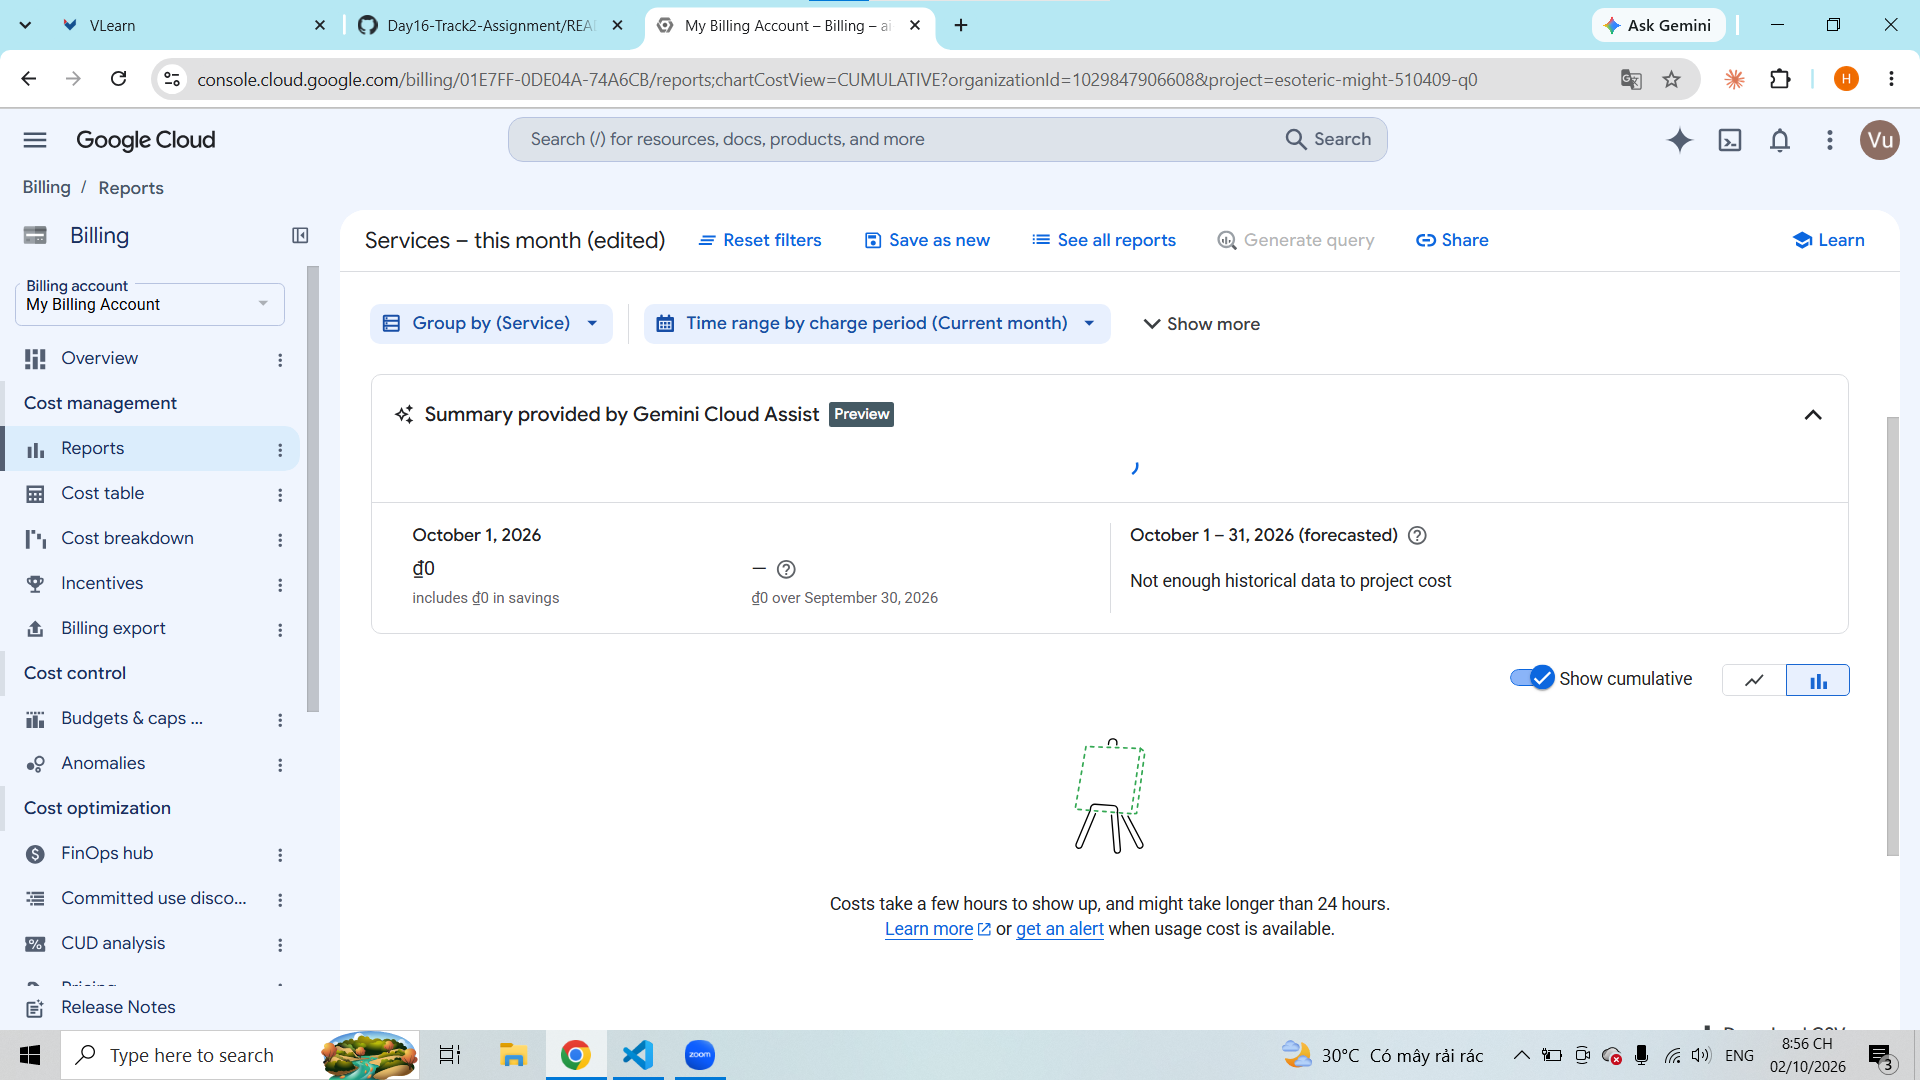
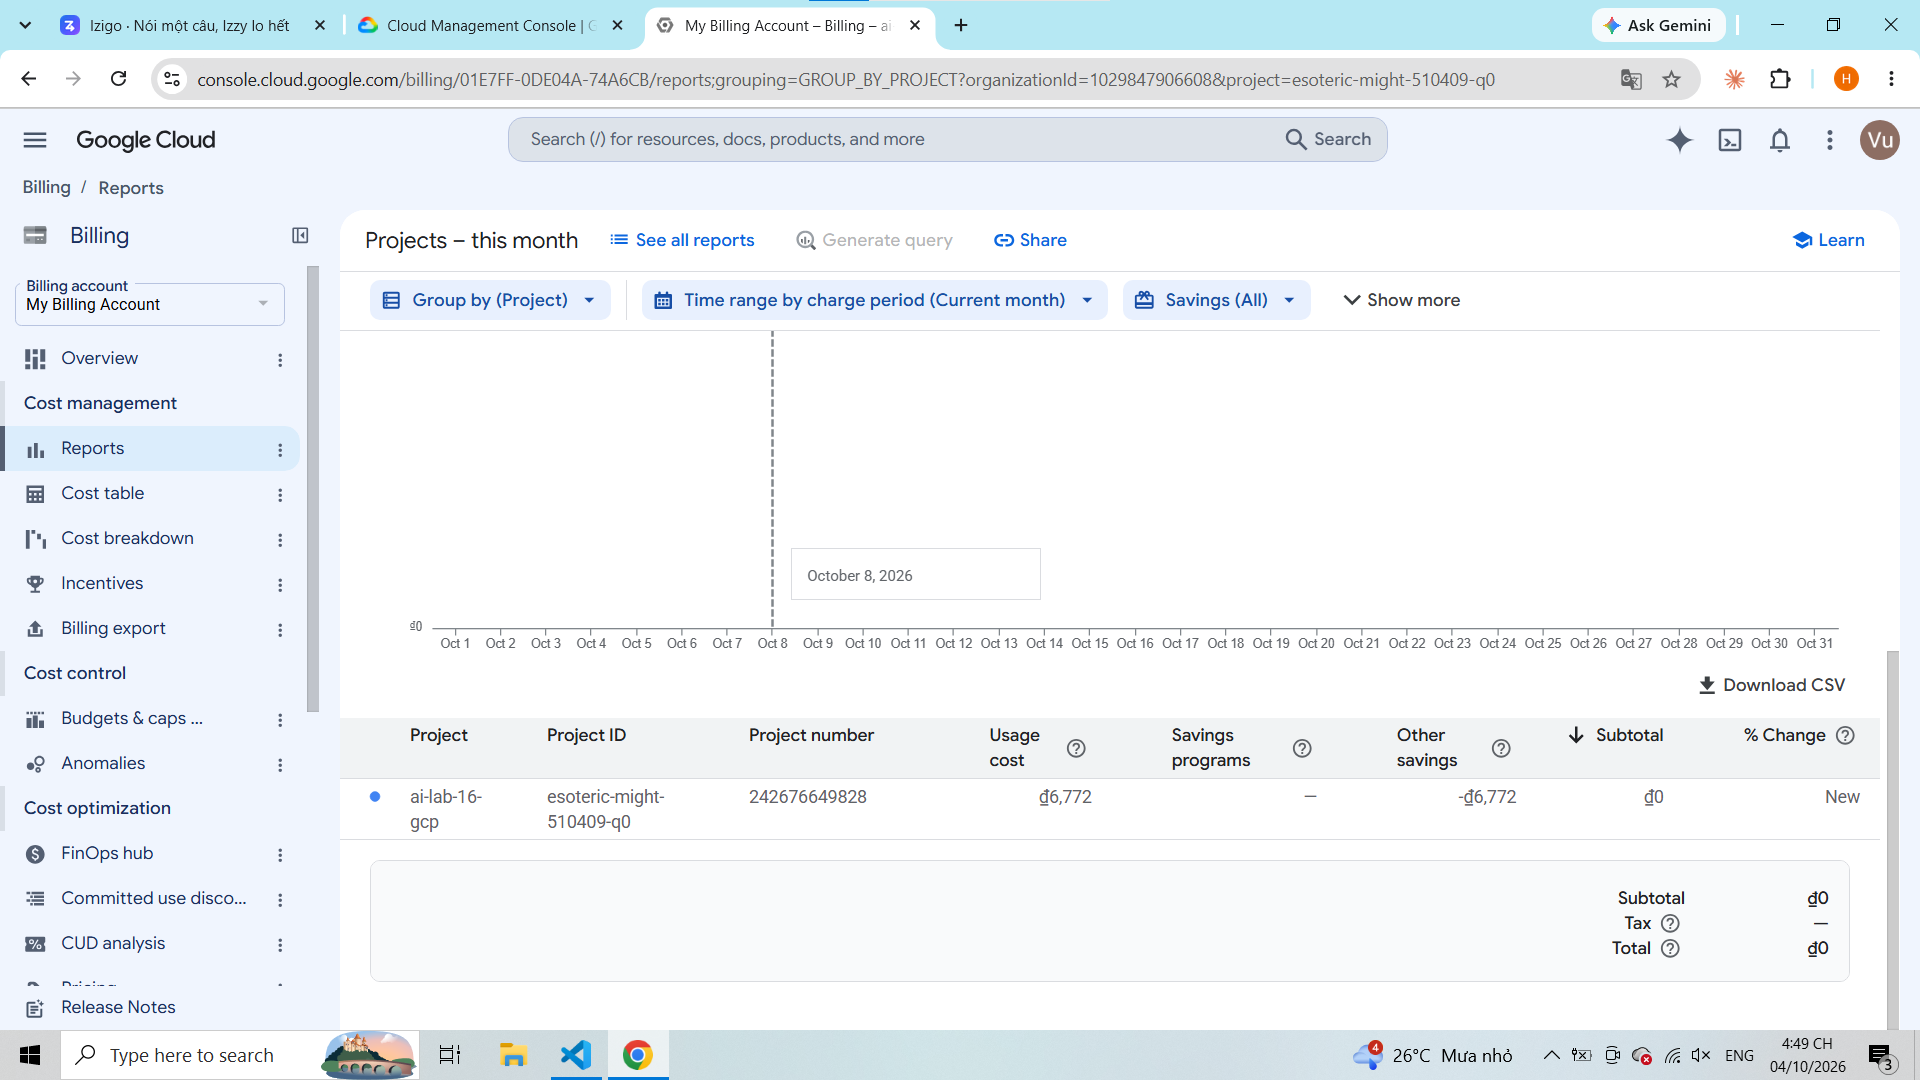
Update billing screenshot and report with actual GCP cost

diff --git a/submission/report.md b/submission/report.md
@@ -6,5 +6,5 @@
 4. Trên tập test: **AUC-ROC 0,9709**, Accuracy 0,9995, **F1 0,8571**, Precision 0,9286, Recall 0,7959 (ngưỡng 0,5). Accuracy cao chủ yếu do mất cân bằng lớp, nên AUC/F1/Recall phản ánh chất lượng thật hơn.
 5. Latency 1 dòng **1,33 ms** (median của 200 lần sau warm-up; p95 1,51 ms); throughput batch 1.000 dòng **~141.214 dòng/giây** (median 20 lần, 7,1 ms/batch); chỉ đo thời gian `predict_proba`, không tính đọc file.
 6. Ghi chú kỹ thuật: lần chạy đầu với tham số mặc định (`min_child_weight=1e-3`) dừng ở best_iteration = 1 (AUC 0,938) do lá chứa ít mẫu gian lận nhận giá trị Newton-step quá lớn khiến training phân kỳ; đặt `min_child_weight=1` giúp mô hình ổn định (AUC 0,971, F1 0,857). Trên CPU 2 vCPU, training < 10 giây và inference ~1 ms/dòng là đủ nhanh cho bài toán này, không cần GPU.
-7. CPU/RAM/Network quan sát qua `top`, `free -h`, `ip -s link` (ảnh `03_top.png`, `04_free_iplink.png`). Billing tại **20:56 ngày 02/10/2026** ghi nhận **₫0 – chưa cập nhật** (Console ghi "Costs take a few hours to show up, and might take longer than 24 hours") (ảnh `05_billing_reports.png`); ước tính theo README ~0,09 USD/giờ (VM e2-medium + Cloud NAT + HTTP LB).
+7. CPU/RAM/Network quan sát qua `top`, `free -h`, `ip -s link` (ảnh `03_top.png`, `04_free_iplink.png`). Billing (Reports, group by Project, tháng 10/2026) chụp lúc **16:49 ngày 04/10/2026** cho project `esoteric-might-510409-q0`: **Usage cost ₫6.772**, được bù hoàn toàn bởi Other savings (credit) **−₫6.772**, nên **Subtotal/Total ₫0** (ảnh `05_billing_reports.png`); ước tính theo README ~0,09 USD/giờ (VM e2-medium + Cloud NAT + HTTP LB).
 8. Tôi đã tải kết quả về laptop và chạy `terraform destroy` lúc **21:19 ngày 02/10/2026** (16 tài nguyên bị xóa, `terraform state list` trống, `gcloud compute instances list` báo 0 items; ảnh `06_destroy_complete.png`).
